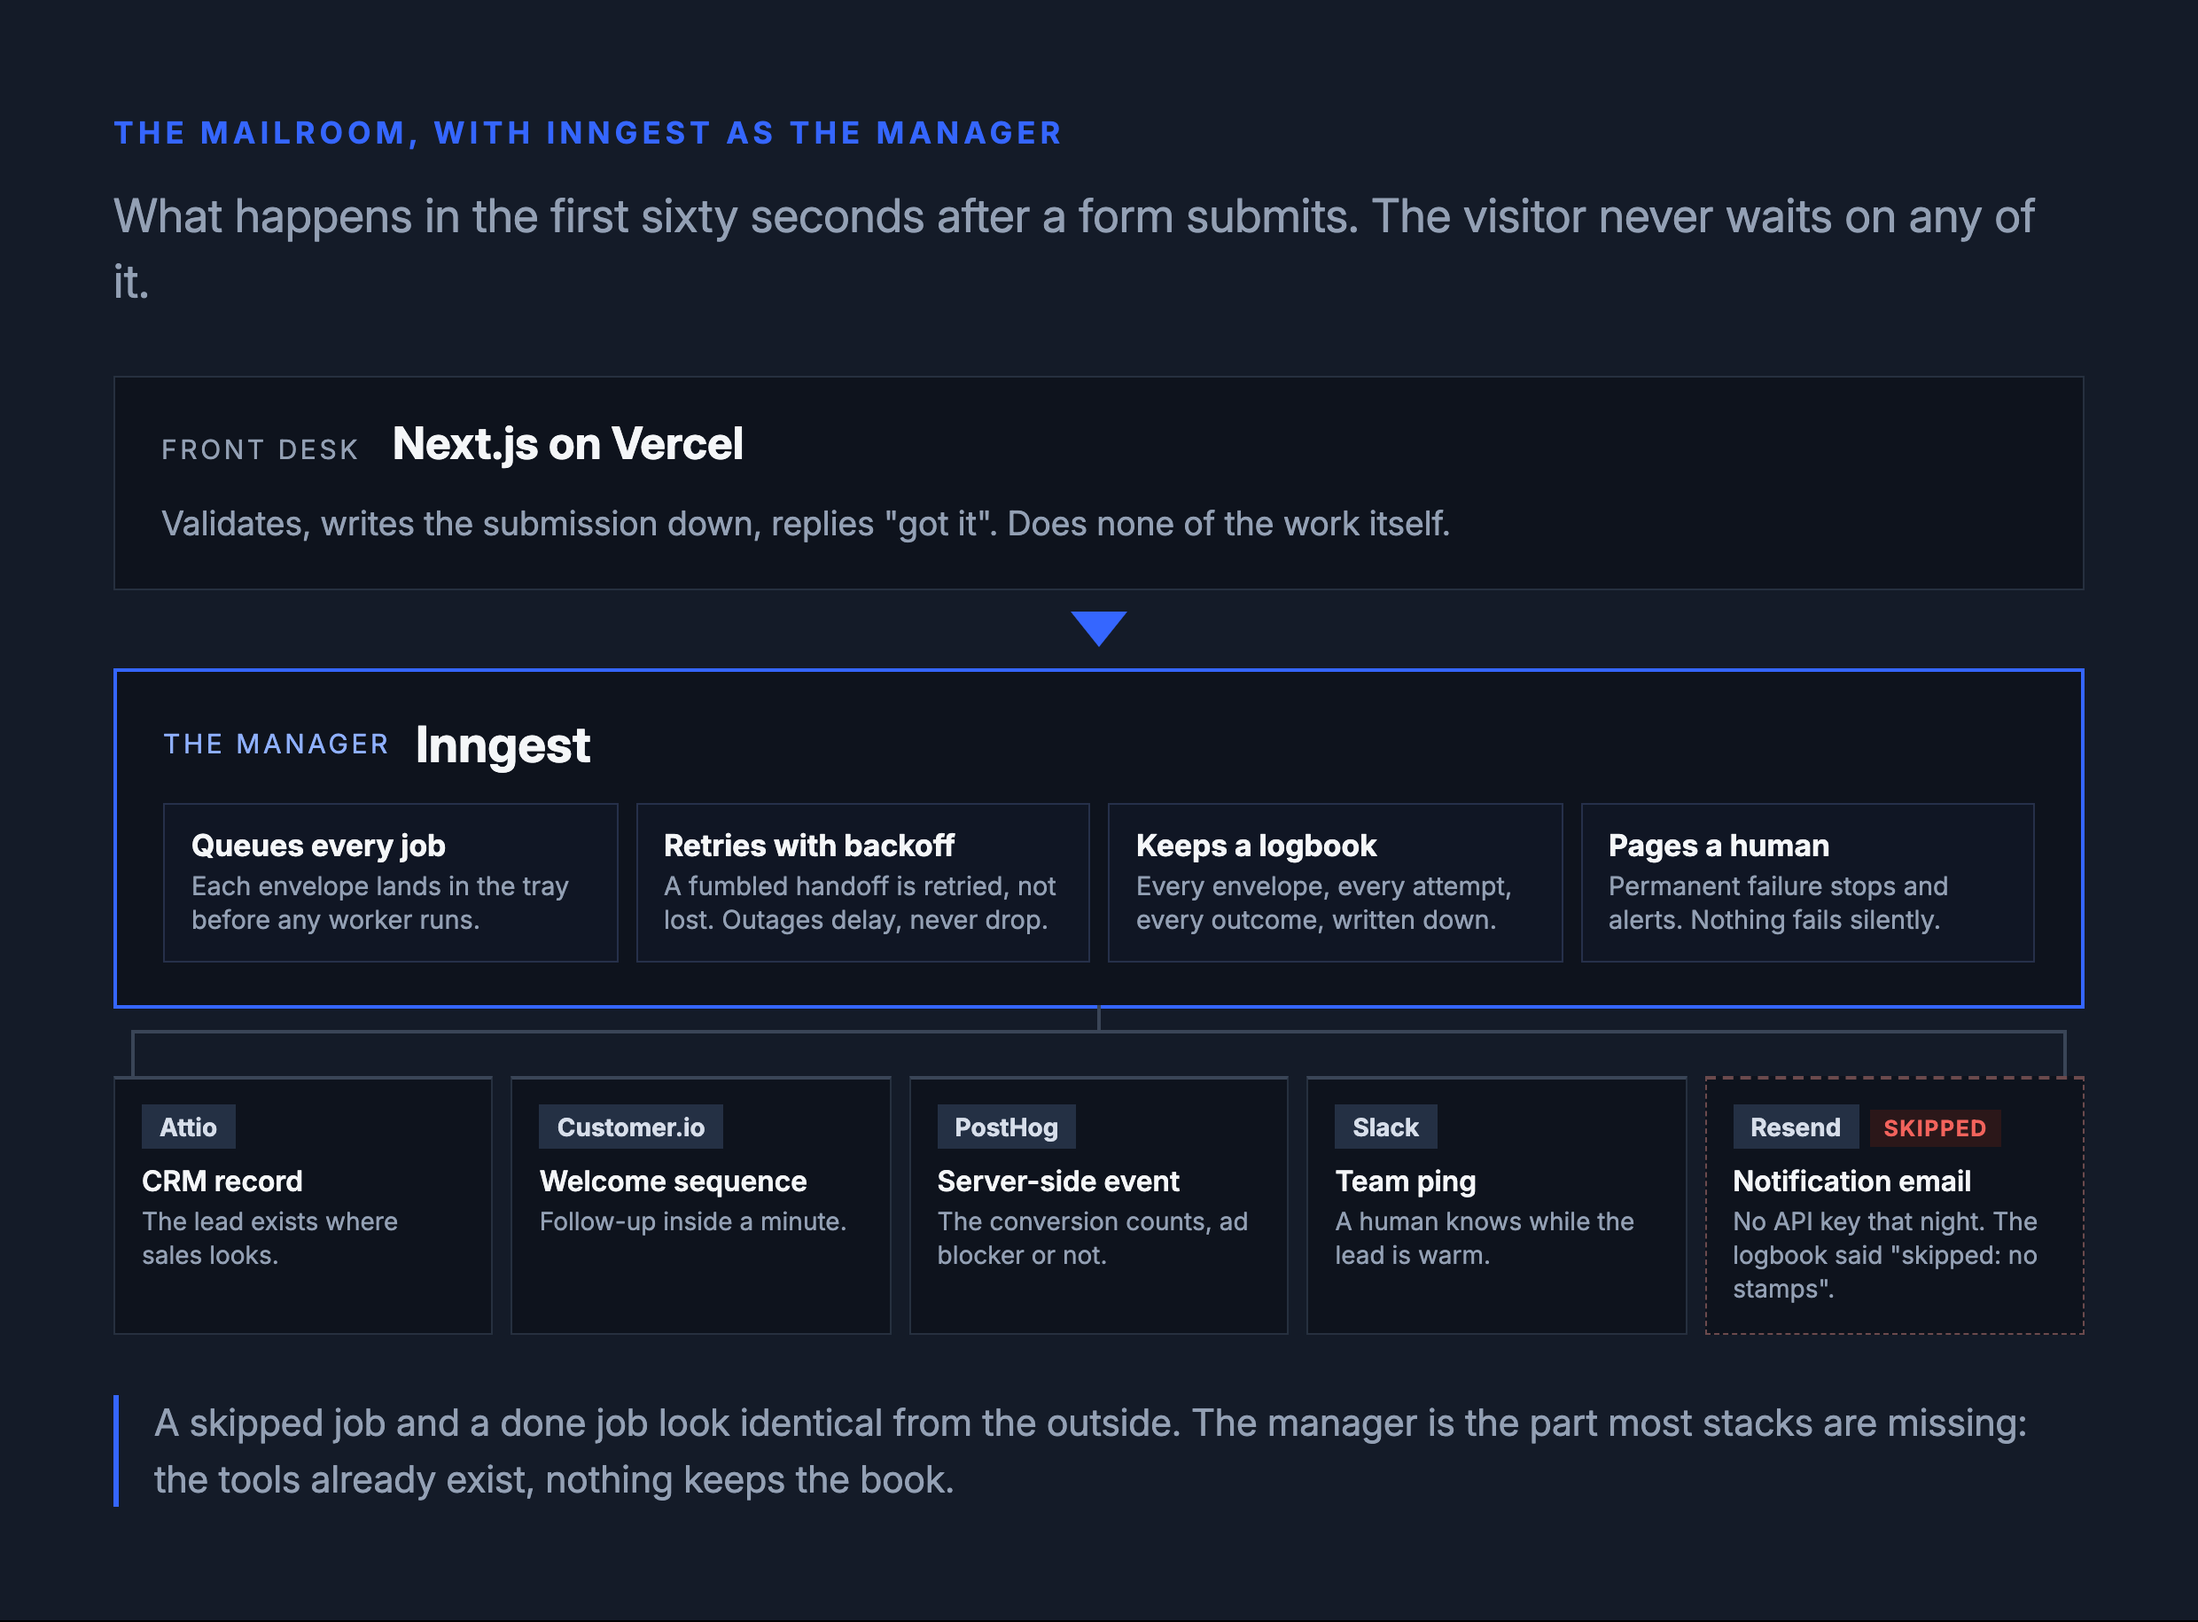
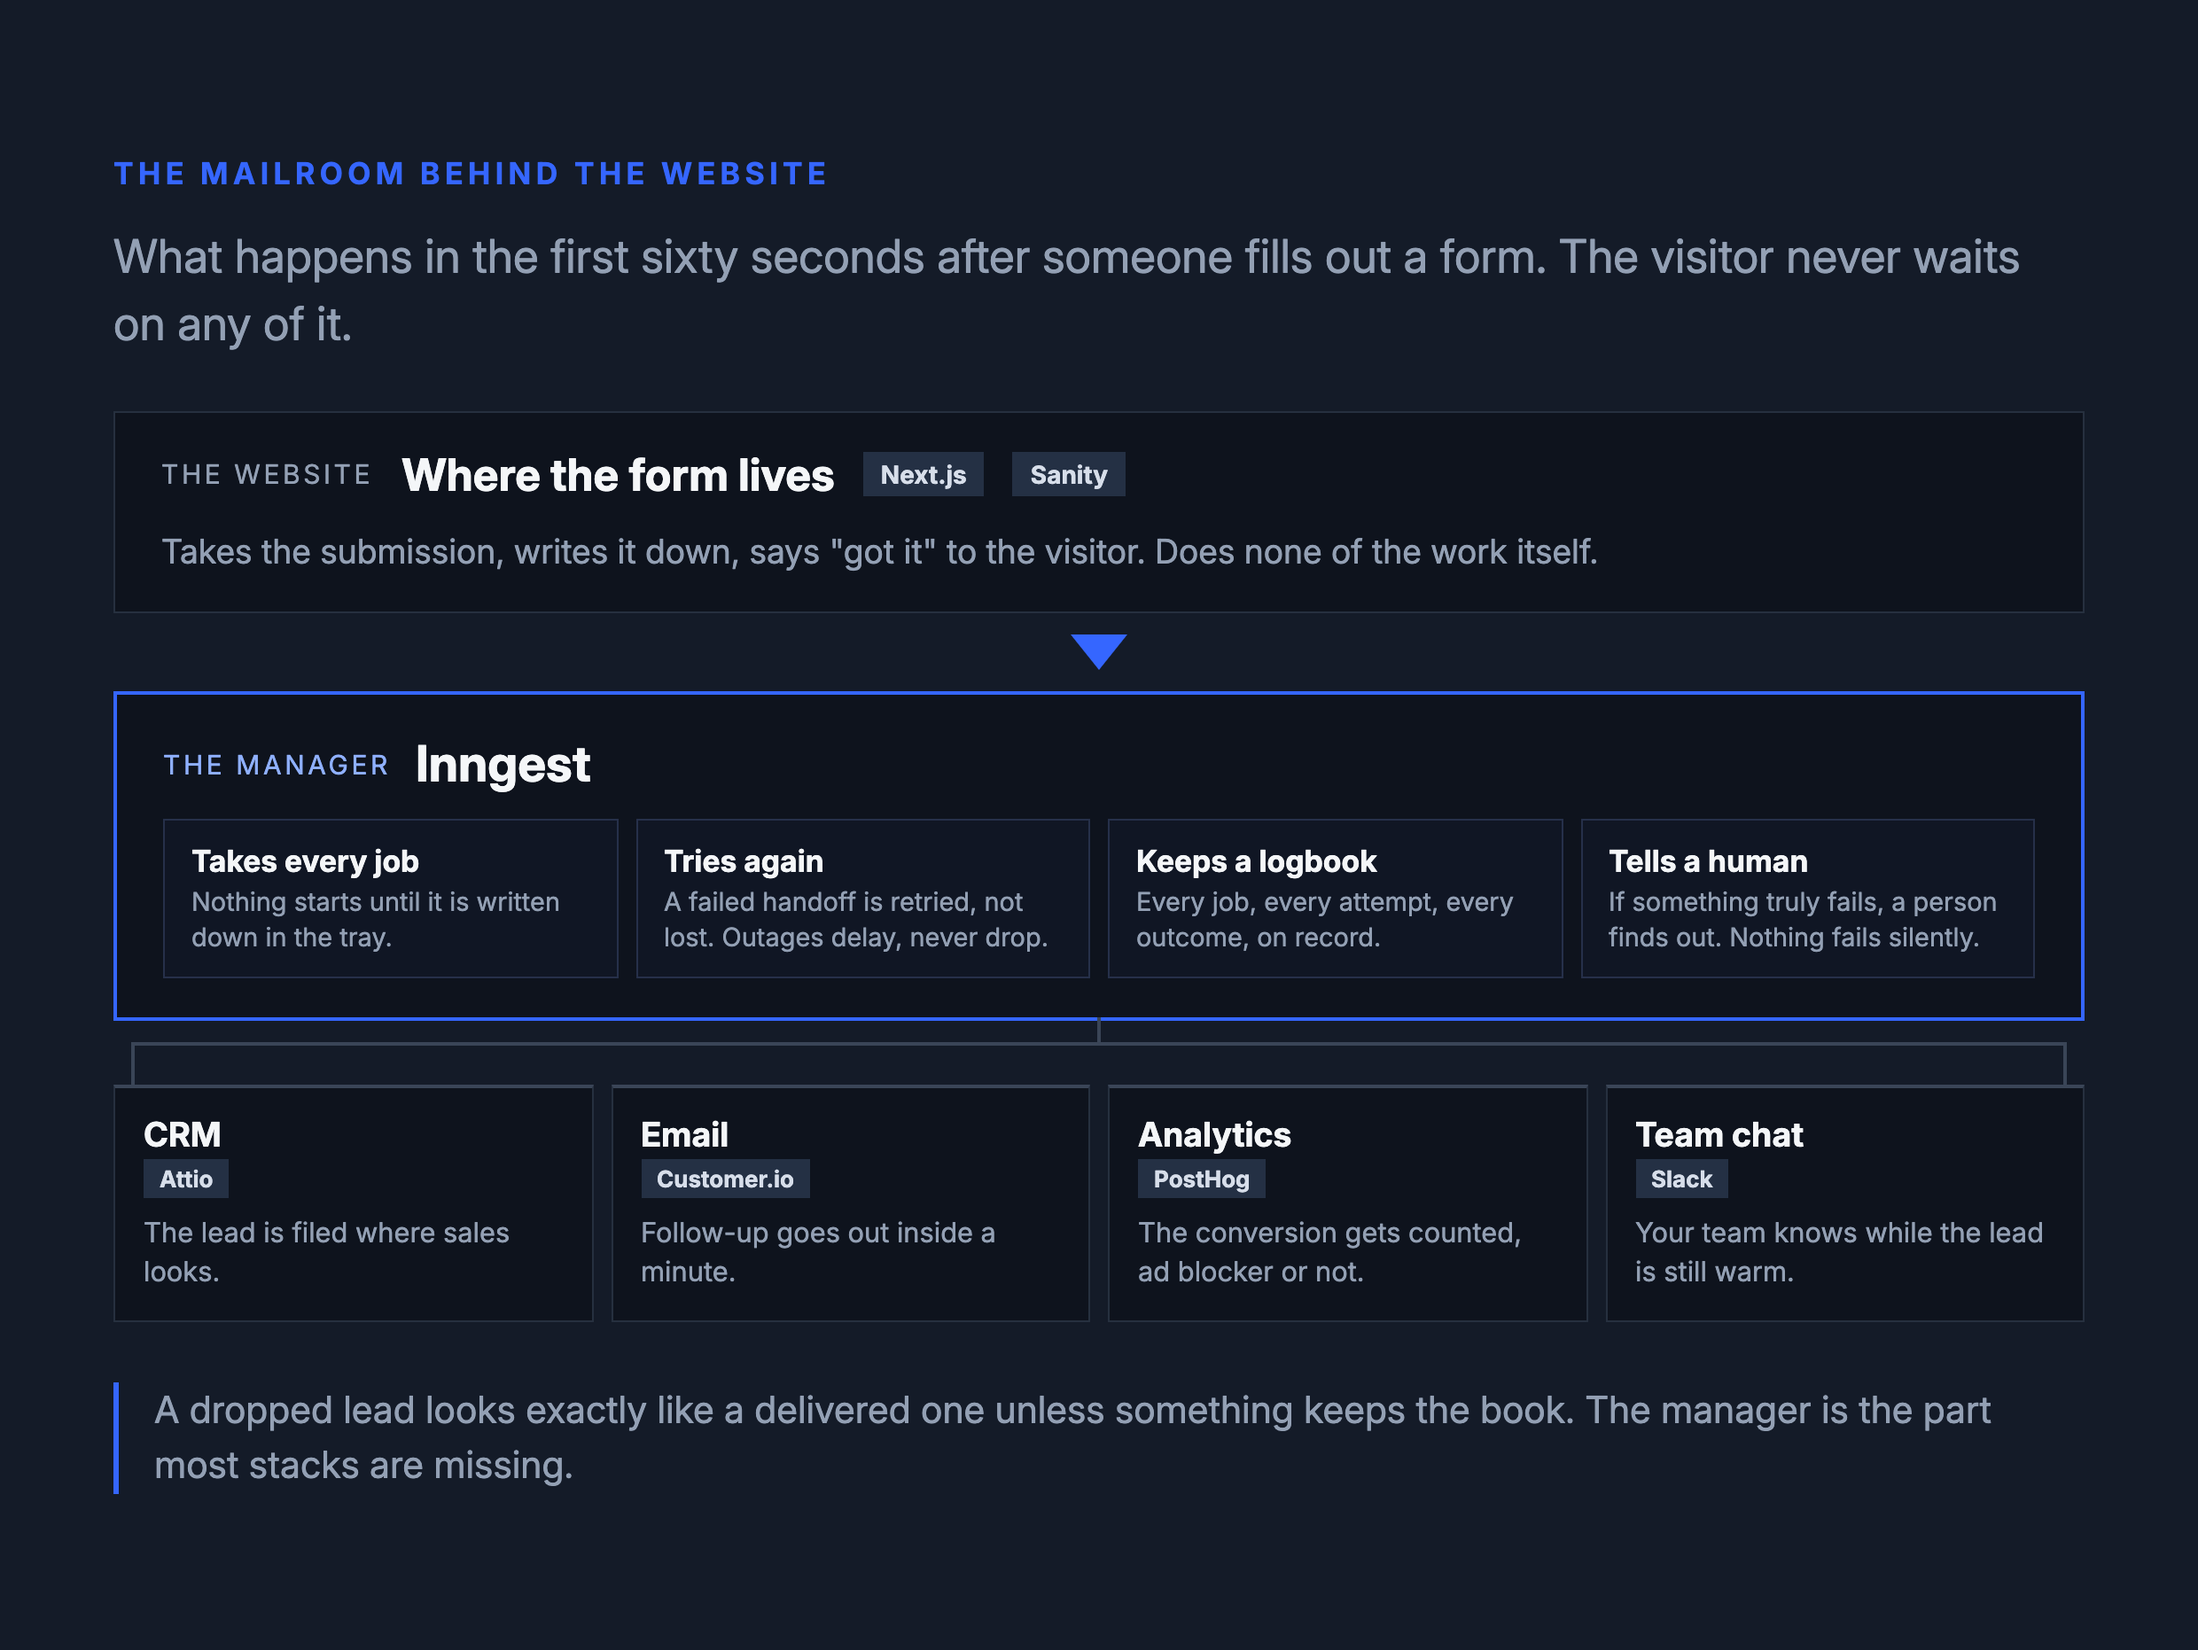
Inngest mailroom diagram: 4:3, marketer-plain
Exact 4:3 frame for the post. Resend dropped, workers lead with plain
categories (CRM, Email, Analytics, Team chat) and the tools become
chips, the website card names Next.js and Sanity as where the form
lives, and the manager behaviors lose the jargon: takes every job,
tries again, keeps a logbook, tells a human.

diff --git a/documents/design-system-images/diagrams/source.html b/documents/design-system-images/diagrams/source.html
@@ -629,40 +629,41 @@
 </div>
 
 
-<div class="diagram" id="inngestmail" style="width:1240px">
-  <div class="kicker">The mailroom, with Inngest as the manager</div>
-  <div class="sub" style="margin-bottom:34px">What happens in the first sixty seconds after a form submits. The visitor never waits on any of it.</div>
+<div class="diagram" id="inngestmail" style="width:1240px;height:930px;display:flex;flex-direction:column;justify-content:center">
+  <div class="kicker">The mailroom behind the website</div>
+  <div class="sub" style="margin-bottom:30px">What happens in the first sixty seconds after someone fills out a form. The visitor never waits on any of it.</div>
   <style>
-    .im-desk{background:var(--card);border:1px solid var(--line);padding:22px 26px;display:flex;align-items:baseline;gap:18px;flex-wrap:wrap}
+    .im-desk{background:var(--card);border:1px solid var(--line);padding:20px 26px;display:flex;align-items:center;gap:16px;flex-wrap:wrap}
     .im-desk .lab{font-size:15px;letter-spacing:.12em;text-transform:uppercase;color:var(--muted);flex:none}
     .im-desk .nm{font-size:25px;font-weight:700;flex:none}
-    .im-desk .d{color:var(--muted);font-size:19px;line-height:1.4}
+    .im-desk .tool{display:inline-block;background:#243044;color:#d7deea;font-size:14px;font-weight:700;padding:4px 10px}
+    .im-desk .d{color:var(--muted);font-size:19px;line-height:1.4;width:100%}
     .im-chev{display:flex;justify-content:center;margin:12px 0}
     .im-chev i{width:0;height:0;border-left:16px solid transparent;border-right:16px solid transparent;border-top:20px solid var(--blue)}
-    .im-mgr{background:var(--card);border:2px solid var(--blue);padding:24px 26px}
-    .im-mgr .top{display:flex;align-items:center;gap:14px;margin-bottom:16px}
+    .im-mgr{background:var(--card);border:2px solid var(--blue);padding:22px 26px}
+    .im-mgr .top{display:flex;align-items:center;gap:14px;margin-bottom:14px}
     .im-mgr .lab{font-size:15px;letter-spacing:.12em;text-transform:uppercase;color:#8fb0ff}
     .im-mgr .nm{font-size:28px;font-weight:700}
     .im-mgr .grid4{display:grid;grid-template-columns:repeat(4,1fr);gap:10px}
     .im-mgr .beh{background:#101624;border:1px solid #26304a;padding:13px 15px}
     .im-mgr .beh b{display:block;font-size:17px;margin-bottom:3px}
     .im-mgr .beh span{color:var(--muted);font-size:14.5px;line-height:1.35;display:block}
-    .im-fan{height:26px;margin:12px 10px 0;border-left:2px solid #3a4557;border-right:2px solid #3a4557;border-top:0;border-bottom:0;position:relative}
+    .im-fan{height:24px;margin:12px 10px 0;border-left:2px solid #3a4557;border-right:2px solid #3a4557;position:relative}
     .im-fan::before{content:"";position:absolute;left:-2px;right:-2px;top:0;height:2px;background:#3a4557}
     .im-fan::after{content:"";position:absolute;left:50%;top:-14px;width:2px;height:14px;background:#3a4557;transform:translateX(-50%)}
-    .im-workers{display:grid;grid-template-columns:repeat(5,1fr);gap:10px;margin-top:0}
-    .im-w{background:var(--card);border:1px solid var(--line);border-top:2px solid #3a4557;padding:14px 15px 15px;position:relative}
-    .im-w .tool{display:inline-block;background:#243044;color:#d7deea;font-size:14px;font-weight:700;padding:4px 10px;margin-bottom:8px}
-    .im-w .job{font-size:16px;font-weight:600;line-height:1.3;margin-bottom:4px}
-    .im-w .s{color:var(--muted);font-size:14px;line-height:1.35}
-    .im-w.skip{border:1px dashed #6b4a4d;border-top:2px dashed #6b4a4d}
-    .im-w.skip .chipr{display:inline-block;background:var(--redbg);color:var(--red);font-size:12.5px;font-weight:700;letter-spacing:.06em;text-transform:uppercase;padding:3px 8px;margin-left:6px}
+    .im-workers{display:grid;grid-template-columns:repeat(4,1fr);gap:10px}
+    .im-w{background:var(--card);border:1px solid var(--line);border-top:2px solid #3a4557;padding:15px 16px 16px}
+    .im-w .cat{font-size:19px;font-weight:700;margin-bottom:2px}
+    .im-w .tool{display:inline-block;background:#243044;color:#d7deea;font-size:13px;font-weight:700;padding:3px 9px;margin-bottom:9px}
+    .im-w .s{color:var(--muted);font-size:15.5px;line-height:1.4}
   </style>
 
   <div class="im-desk">
-    <span class="lab">Front desk</span>
-    <span class="nm">Next.js on Vercel</span>
-    <span class="d">Validates, writes the submission down, replies "got it". Does none of the work itself.</span>
+    <span class="lab">The website</span>
+    <span class="nm">Where the form lives</span>
+    <span class="tool">Next.js</span>
+    <span class="tool">Sanity</span>
+    <span class="d">Takes the submission, writes it down, says "got it" to the visitor. Does none of the work itself.</span>
   </div>
 
   <div class="im-chev"><i></i></div>
@@ -670,24 +671,24 @@
   <div class="im-mgr">
     <div class="top"><span class="lab">The manager</span><span class="nm">Inngest</span></div>
     <div class="grid4">
-      <div class="beh"><b>Queues every job</b><span>Each envelope lands in the tray before any worker runs.</span></div>
-      <div class="beh"><b>Retries with backoff</b><span>A fumbled handoff is retried, not lost. Outages delay, never drop.</span></div>
-      <div class="beh"><b>Keeps a logbook</b><span>Every envelope, every attempt, every outcome, written down.</span></div>
-      <div class="beh"><b>Pages a human</b><span>Permanent failure stops and alerts. Nothing fails silently.</span></div>
+      <div class="beh"><b>Takes every job</b><span>Nothing starts until it is written down in the tray.</span></div>
+      <div class="beh"><b>Tries again</b><span>A failed handoff is retried, not lost. Outages delay, never drop.</span></div>
+      <div class="beh"><b>Keeps a logbook</b><span>Every job, every attempt, every outcome, on record.</span></div>
+      <div class="beh"><b>Tells a human</b><span>If something truly fails, a person finds out. Nothing fails silently.</span></div>
     </div>
   </div>
 
   <div class="im-fan"></div>
 
   <div class="im-workers">
-    <div class="im-w"><span class="tool">Attio</span><div class="job">CRM record</div><div class="s">The lead exists where sales looks.</div></div>
-    <div class="im-w"><span class="tool">Customer.io</span><div class="job">Welcome sequence</div><div class="s">Follow-up inside a minute.</div></div>
-    <div class="im-w"><span class="tool">PostHog</span><div class="job">Server-side event</div><div class="s">The conversion counts, ad blocker or not.</div></div>
-    <div class="im-w"><span class="tool">Slack</span><div class="job">Team ping</div><div class="s">A human knows while the lead is warm.</div></div>
-    <div class="im-w skip"><span class="tool">Resend</span><span class="chipr">Skipped</span><div class="job">Notification email</div><div class="s">No API key that night. The logbook said "skipped: no stamps".</div></div>
+    <div class="im-w"><div class="cat">CRM</div><span class="tool">Attio</span><div class="s">The lead is filed where sales looks.</div></div>
+    <div class="im-w"><div class="cat">Email</div><span class="tool">Customer.io</span><div class="s">Follow-up goes out inside a minute.</div></div>
+    <div class="im-w"><div class="cat">Analytics</div><span class="tool">PostHog</span><div class="s">The conversion gets counted, ad blocker or not.</div></div>
+    <div class="im-w"><div class="cat">Team chat</div><span class="tool">Slack</span><div class="s">Your team knows while the lead is still warm.</div></div>
   </div>
 
-  <div class="note">A skipped job and a done job look identical from the outside. The manager is the part most stacks are missing: the tools already exist, nothing keeps the book.</div>
+  <div class="note">A dropped lead looks exactly like a delivered one unless something keeps the book. The manager is the part most stacks are missing.</div>
+</div>
 </div>
 
 </body></html>
